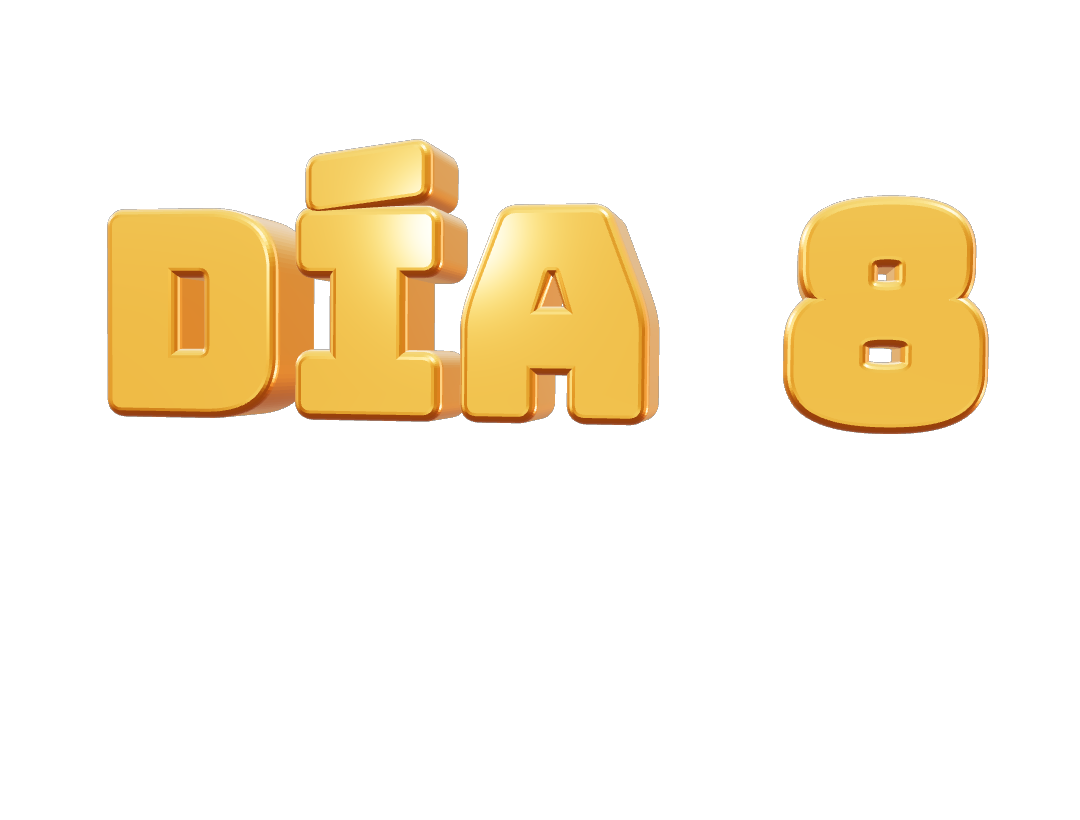
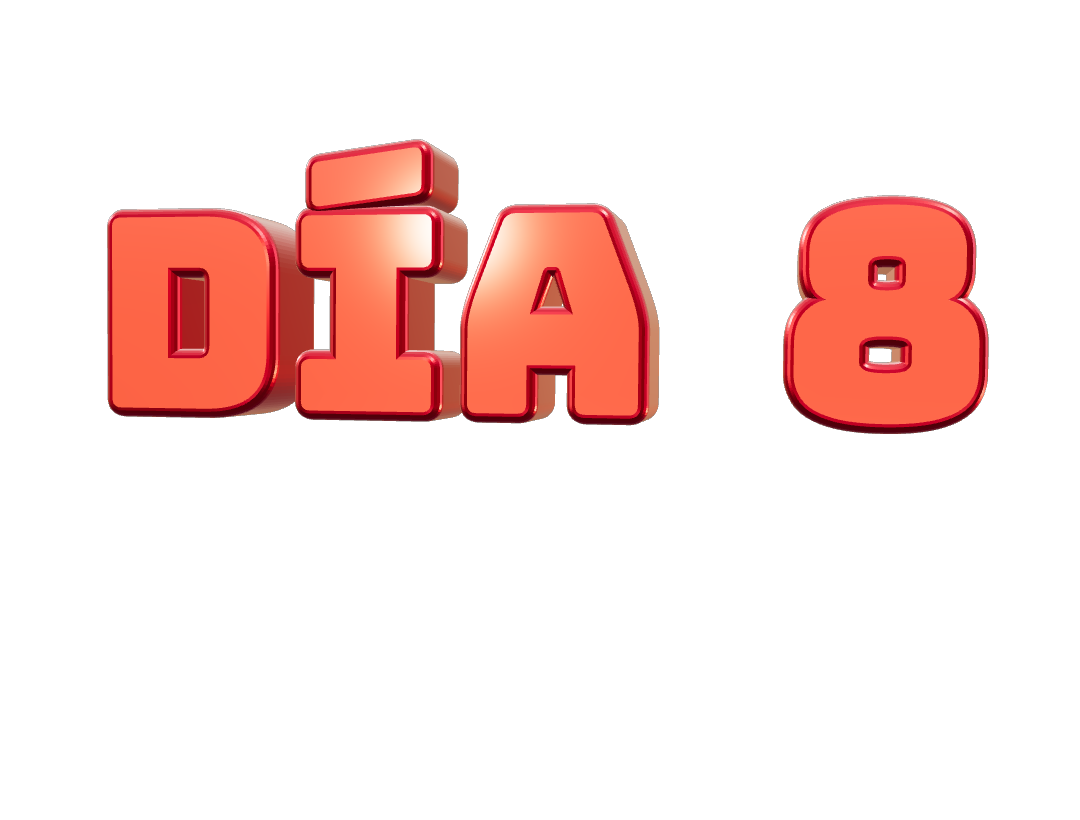
Portadas 3D de los dias 1-8 y especial, con fondos 3D nuevos (dental, salon, estudio)
Claude-Session: https://claude.ai/code/session_01VDdbgAKTwVog87zPcVcZjJ

Changed region(s): [[0.0917, 0.1524, 0.6111, 0.5183], [0.7028, 0.2134, 0.9167, 0.5488]]

diff --git a/lazy-dawns/plates3d/scenes.html b/lazy-dawns/plates3d/scenes.html
@@ -290,6 +290,48 @@ if (scene_name === 'lair') {
   for (let i = 0; i < 120; i++) glow(((i * 37) % 26) - 13, 0.5 + ((i * 53) % 110) / 10, -9 + ((i * 29) % 20), 0.14 + (i % 3) * 0.06, i % 2 ? 0xff7a8a : 0x7ac0ff, 0.7);
   window.__proj = screens.map(([x, y, k]) => { const v = new THREE.Vector3(x, y, -8.76).project(cam); return [x, y, k, (v.x + 1) / 2 * 1080, (1 - v.y) / 2 * 1920]; });
 }
+
+const rndS = (s) => () => (s = (s * 16807) % 2147483647) / 2147483647;
+const tileFloor = (c1, c2, n = 8) => { const t = tex((c, w, h) => { for (let i = 0; i < n; i++) for (let j = 0; j < n; j++) { c.fillStyle = (i + j) % 2 ? c1 : c2; c.fillRect(i * w / n, j * h / n, w / n, h / n); c.strokeStyle = 'rgba(0,0,0,.25)'; c.strokeRect(i * w / n, j * h / n, w / n, h / n); } }, 1024, 1024); t.wrapS = t.wrapT = THREE.RepeatWrapping; t.repeat.set(4, 4); return t; };
+const roomShell = (wallCol, floorTex, ceilCol = 0x1a1a22) => { add(Box(40, 0.3, 40), M(0xffffff, 0.18, 0.2, { map: floorTex }), 0, -0.15, 4, sc, false).receiveShadow = true; const wm = M(wallCol, 0.75); add(Box(26, 12, 0.3), wm, 0, 6, -9); add(Box(0.3, 12, 26), wm, -13, 6, 3); add(Box(0.3, 12, 26), wm, 13, 6, 3); add(Box(26, 0.3, 26), M(ceilCol, 0.9), 0, 12, 3); };
+if (scene_name === 'dental') {
+  sc.background = new THREE.Color(0x06121a); sc.fog = new THREE.Fog(0x06121a, 12, 40); cam.position.set(0, 3.0, 11.5); cam.lookAt(0, 2.6, -6); r.toneMappingExposure = 0.9;
+  roomShell(0x1d4a5a, tileFloor('#c9dde4', '#5f8896'));
+  const wallT = tex((c, w, h) => { c.fillStyle = '#d7ecf2'; c.fillRect(0, 0, w, h); for (let i = 0; i < 16; i++) for (let j = 0; j < 12; j++) { c.strokeStyle = 'rgba(80,120,140,.45)'; c.strokeRect(i * 64, j * 64, 64, 64); } }, 1024, 768); add(Box(26, 7, 0.1), M(0xffffff, 0.3, 0.1, { map: wallT }), 0, 3.5, -8.8);
+  // lampara dental grande con haz
+  add(Cyl(0.1, 0.1, 5), M(0xcfd6dc, 0.2, 0.9), 0, 9.5, -2); add(Box(3.2, 0.14, 0.14), M(0xcfd6dc, 0.2, 0.9), 1.4, 7.1, -2); const lamp = add(Cyl(1.6, 1.8, 0.5, 48), M(0xf4f6f8, 0.25, 0.5), 3.0, 6.9, -2); lamp.rotation.x = 0.3; add(Cyl(1.3, 1.3, 0.06, 48), M(0xffffff, 0.1, 0, { emissive: 0xfff6e0, emissiveIntensity: 5 }), 3.0, 6.62, -1.9, sc, false).rotation.x = 0.3; glow(3.0, 6.3, -1.8, 8, 0xfff6e0, 0.6); spot(3, 6.8, -1.9, 0, 0, 1, 0xfff6e0, 700, 0.5, 0.7); cone(2.0, 3.5, -1, 7, 2.4, 0xfff6e0, 0.07);
+  // sillon dental (lado derecho, de perfil) con cabecera y brazo con instrumentos
+  const vin = M(0x2b7a8c, 0.35, 0.1, { clearcoat: 0.5 }); add(Box(2.2, 0.5, 4.4), vin, 6.4, 1.3, -3.5); add(Box(2.2, 3.0, 0.6), vin, 6.4, 2.9, -5.7).rotation.x = -0.35; add(Box(1.2, 1.0, 0.5), vin, 6.4, 4.6, -6.2); add(Cyl(0.4, 0.7, 1.3), M(0xcfd6dc, 0.2, 0.9), 6.4, 0.65, -3.5); add(Box(3.0, 0.15, 3.0), M(0x9aa6ad, 0.3, 0.8), 6.4, 0.08, -3.5);
+  // bandeja con instrumentos, lightbox de rayos X con dientes, vitrina
+  add(Box(3.2, 0.14, 1.6), M(0xdfe6ea, 0.2, 0.8), -6, 2.1, -4); add(Cyl(0.07, 0.07, 2.1), M(0xdfe6ea, 0.2, 0.8), -6, 1.0, -4); for (let i = 0; i < 6; i++) { const t = add(Cyl(0.04, 0.04, 0.9), M(0xe5e7eb, 0.15, 1), -7 + i * 0.28, 2.3, -4); t.rotation.z = 1.2 - i * 0.2; }
+  const xray = tex((c, w, h) => { c.fillStyle = '#0a1a26'; c.fillRect(0, 0, w, h); c.fillStyle = '#d9f3ff'; for (let i = 0; i < 14; i++) { const x = 40 + i * 32, y = 120 + Math.sin(i / 13 * 3.14) * -40; c.beginPath(); c.roundRect(x, y, 22, 60 + (i % 3) * 10, 8); c.fill(); c.beginPath(); c.roundRect(x, y + 140, 22, 60 + (i % 3) * 10, 8); c.fill(); } c.strokeStyle = '#7fd4f5'; c.lineWidth = 6; c.strokeRect(10, 10, w - 20, h - 20); }, 512, 320);
+  add(Box(5.2, 3.3, 0.2), M(0x0a0a10, 0.3), -3.5, 6.0, -8.7); add(Box(4.8, 3.0, 0.06), new THREE.MeshBasicMaterial({ map: xray }), -3.5, 6.0, -8.55, sc, false); glow(-3.5, 6.0, -8.3, 8, 0x7fd4f5, 0.4);
+  for (let i = 0; i < 3; i++) add(Cyl(0.3, 0.3, 0.7), M([0xe86a92, 0x5eb4e8, 0xf7c948][i], 0.25, 0.1), 9.5 + i * 0.9, 3.0, -8.4);
+  sc.add(new THREE.AmbientLight(0x4a7a8a, 0.35)); sc.add(new THREE.HemisphereLight(0x8ac4d6, 0x0a1a22, 0.4)); spot(-5, 9, 3, -4, 2, -6, 0x7fd4f5, 90, 0.9, 0.9);
+}
+if (scene_name === 'salon') {
+  sc.background = new THREE.Color(0x120814); sc.fog = new THREE.Fog(0x120814, 12, 42); cam.position.set(0, 3.0, 11.5); cam.lookAt(0, 2.6, -6); r.toneMappingExposure = 0.95;
+  roomShell(0x3a1a3a, tileFloor('#f0dcd8', '#5a2a48'));
+  const gold = M(0xd4a24c, 0.25, 0.9);
+  // pared de espejos con marcos y focos (2 estaciones laterales)
+  for (const x of [-7.4, 7.4]) { add(Box(5.6, 6.4, 0.2), gold, x, 4.6, -8.7); const mT = tex((c, w, h) => { const g = c.createLinearGradient(0, 0, w, h); g.addColorStop(0, '#d8eaf6'); g.addColorStop(0.5, '#7fa8c6'); g.addColorStop(1, '#2d4a68'); c.fillStyle = g; c.fillRect(0, 0, w, h); c.fillStyle = 'rgba(255,255,255,.12)'; c.beginPath(); c.moveTo(60, 0); c.lineTo(160, 0); c.lineTo(60 + 120, h); c.lineTo(20, h); c.fill(); }, 256, 320); add(Box(5.2, 6.0, 0.08), new THREE.MeshBasicMaterial({ map: mT }), x, 4.6, -8.58, sc, false); for (let i = 0; i < 7; i++) for (const y of [1.5, 7.7]) { add(Sph(0.18), M(0xfff6d8, 0.1, 0, { emissive: 0xffe2a0, emissiveIntensity: 3.2 }), x - 2.4 + i * 0.8, y, -8.5, sc, false); } glow(x, 4.6, -8.3, 9, 0xffd49a, 0.3); add(Box(4.6, 0.25, 1.4), M(0xf5e6d0, 0.2), x, 1.6, -7.8); for (let i = 0; i < 5; i++) add(Cyl(0.16, 0.16, 0.8), M([0xb91c1c, 0x7c2d12, 0x1f2937, 0xc084fc, 0xf59e0b][i], 0.25, 0.3), x - 1.7 + i * 0.85, 2.2, -7.6); }
+  // secadores colgantes (casco) y lavacabezas
+  for (const x of [-3.2, 3.2]) { add(Cyl(0.05, 0.05, 4.5), M(0xcfd6dc, 0.2, 0.9), x, 9.8, -4); const hd = add(Sph(1.1), M(0xf472b6, 0.2, 0.2, { clearcoat: 1 }), x, 7.2, -4); hd.scale.set(1, 0.8, 1); add(Cyl(1.2, 1.2, 0.2, 40), M(0xfff1f2, 0.2), x, 6.6, -4); }
+  add(Box(3, 1.2, 1.6), M(0xf5f5f5, 0.2, 0.1), 0, 1.4, -7); add(Cyl(0.9, 0.7, 0.5), M(0xdfe6ea, 0.15, 0.6), 0, 2.2, -7);
+  sc.add(new THREE.AmbientLight(0x6a3a6a, 0.45)); sc.add(new THREE.HemisphereLight(0xffc8e8, 0x1a0a20, 0.45)); spot(0, 10, 4, 0, 1, -5, 0xffd9e8, 180, 0.8, 0.9); spot(-8, 8, 2, -6, 2, -7, 0xff9ad0, 80, 0.9, 0.9); spot(8, 8, 2, 6, 2, -7, 0x9ad0ff, 80, 0.9, 0.9);
+}
+if (scene_name === 'studio') {
+  sc.background = new THREE.Color(0x140c14); sc.fog = new THREE.Fog(0x140c14, 12, 42); cam.position.set(0, 3.0, 11.5); cam.lookAt(0, 2.6, -6); r.toneMappingExposure = 0.95;
+  const wood = tex((c, w, h) => { for (let i = 0; i < 12; i++) { c.fillStyle = i % 2 ? '#6a4a38' : '#7a5842'; c.fillRect(0, i * h / 12, w, h / 12 - 2); c.fillStyle = 'rgba(0,0,0,.35)'; c.fillRect(0, (i + 1) * h / 12 - 2, w, 2); } }, 512, 512); wood.wrapS = wood.wrapT = THREE.RepeatWrapping; wood.repeat.set(5, 5);
+  roomShell(0x6a3a4a, wood);
+  // aro de luz en tripie y lupa luminosa con brazo
+  for (const x of [-5.5, 5.5]) { add(Cyl(0.06, 0.06, 6), M(0x222, 0.3, 0.9), x, 3, -5); const ring = add(new THREE.TorusGeometry(1.4, 0.14, 16, 56), new THREE.MeshStandardMaterial({ color: 0xffffff, emissive: 0xfff2dc, emissiveIntensity: 3 }), x, 6.6, -5); ring.rotation.y = x < 0 ? 0.3 : -0.3; glow(x, 6.6, -4.8, 7, 0xffe2c0, 0.5); add(Cyl(0.5, 0.6, 0.15), M(0x222, 0.3, 0.9), x, 0.08, -5); }
+  const mir = tex((c, w, h) => { const g = c.createRadialGradient(w / 2, h / 2, 10, w / 2, h / 2, w / 2); g.addColorStop(0, '#f2f8ff'); g.addColorStop(1, '#8fb0c8'); c.fillStyle = g; c.fillRect(0, 0, w, h); }, 256, 256); add(Cyl(2.2, 2.2, 0.15, 56), M(0xd4a24c, 0.25, 0.9), 0, 5.2, -8.7).rotation.x = Math.PI / 2; add(Cyl(2.0, 2.0, 0.08, 56), new THREE.MeshBasicMaterial({ map: mir }), 0, 5.2, -8.58, sc, false).rotation.x = Math.PI / 2;
+  const cht = tex((c, w, h) => { c.fillStyle = '#fbf6f0'; c.fillRect(0, 0, w, h); c.strokeStyle = '#8a4a4a'; c.lineWidth = 6; c.strokeRect(10, 10, w - 20, h - 20); for (let i = 0; i < 5; i++) { c.beginPath(); c.moveTo(60, 100 + i * 70); c.quadraticCurveTo(w / 2, 40 + i * 70, w - 60, 110 + i * 70); c.lineWidth = 10 - i; c.stroke(); } }, 256, 384); add(Box(2.4, 3.4, 0.08), new THREE.MeshBasicMaterial({ map: cht }), -9, 5.0, -8.7, sc, false); add(Box(2.4, 3.4, 0.08), new THREE.MeshBasicMaterial({ map: cht }), 9, 5.0, -8.7, sc, false);
+  add(Box(6, 0.2, 1.6), M(0xe8d6c8, 0.3, 0.1), 0, 1.9, -7.4); for (let i = 0; i < 5; i++) add(Cyl(0.14, 0.14, 0.7), M([0xe86a92, 0xc084fc, 0xf7c948, 0x7ed6a0, 0x5eb4e8][i], 0.25, 0.3), -2 + i * 1, 2.4, -7.3); add(Cyl(0.9, 0.7, 1.1), M(0xe5e0d8, 0.5), -9.8, 0.55, -6);
+  for (let i = 0; i < 10; i++) { const a = i / 10 * 6.283; const l = add(Sph(0.5), M(0x2f8f4a, 0.55), -9.8 + Math.cos(a) * 0.6, 1.9 + (i % 4) * 0.5, -6 + Math.sin(a) * 0.5); l.scale.set(0.7, 1.7, 0.45); }
+  sc.add(new THREE.AmbientLight(0x6a4050, 0.45)); sc.add(new THREE.HemisphereLight(0xffd0c0, 0x201018, 0.45)); spot(0, 10, 4, 0, 2, -6, 0xfff0e0, 150, 0.9, 0.9);
+}
 r.render(sc, cam);
 window.__done = true;
 </script></body></html>

diff --git a/lazy-dawns/plates3d/objects.html b/lazy-dawns/plates3d/objects.html
@@ -201,8 +201,8 @@ if (NAME === 'slate') { const g = new THREE.Group(); sc.add(g);
 // ---------- portada: titulo multilinea en 3D con bisel, reflejos y borde de luz de color ----------
 if (NAME === 'cover') { const g = new THREE.Group(); sc.add(g); r.toneMappingExposure = 1.05;
   setup = new TTFLoader().loadAsync('./Bungee-Regular.ttf').then((j) => { const font = new Font(j); const lines = (Q.get('t1') || 'TITULO').split('|'), style = Q.get('t2') || 'gold';
-    const P = { gold: { c: 0xffc83a, e: 0xc58a1e, rim: 0xffd890, rim2: 0xff9a40 }, ice: { c: 0xcfefff, e: 0x6fb3d8, rim: 0x9ff0ff, rim2: 0x6a8aff }, ruby: { c: 0xff5a6a, e: 0x8a1428, rim: 0xff9aa6, rim2: 0xff2a4a }, violet: { c: 0xd6b8ff, e: 0x5b34b0, rim: 0xe0c8ff, rim2: 0x8a5aff } }[style] || { c: 0xffc83a, e: 0xc58a1e, rim: 0xffd890, rim2: 0xff9a40 };
-    const gm = M({ color: P.c, metalness: 1, roughness: 0.17, clearcoat: 0.5, clearcoatRoughness: 0.1, envMapIntensity: 1.5 }), sm = M({ color: P.e, metalness: 1, roughness: 0.32, envMapIntensity: 1.2 });
+    const P = { gold: { c: 0xffc83a, e: 0xc58a1e, rim: 0xffd890, rim2: 0xff9a40 }, ice: { c: 0x9fdcff, e: 0x2468a8, rim: 0x9ff0ff, rim2: 0x6a8aff }, ruby: { c: 0xff5a6a, e: 0x8a1428, rim: 0xff9aa6, rim2: 0xff2a4a }, violet: { c: 0xb98cff, e: 0x3a1f8a, rim: 0xe0c8ff, rim2: 0x8a5aff }, teal: { c: 0x2fe0c4, e: 0x075e55, rim: 0xb5fff2, rim2: 0x2a9aff }, pink: { c: 0xff6ab8, e: 0x8a1050, rim: 0xffc8e6, rim2: 0xff4dc0 } }[style] || { c: 0xffc83a, e: 0xc58a1e, rim: 0xffd890, rim2: 0xff9a40 };
+    const gm = M({ color: P.c, metalness: 1, roughness: 0.17, clearcoat: 0.5, clearcoatRoughness: 0.1, envMapIntensity: style === 'gold' ? 1.5 : 1.0 }), sm = M({ color: P.e, metalness: 1, roughness: 0.32, envMapIntensity: 1.0 });
     const rl = new THREE.DirectionalLight(P.rim, 4); rl.position.set(-6, 3, -4); sc.add(rl); const rl2 = new THREE.DirectionalLight(P.rim2, 3); rl2.position.set(7, -2, -3); sc.add(rl2);
     const rows = []; let maxW = 0; lines.forEach((ln, li) => { const row = new THREE.Group(); let x = 0; for (const ch of ln) { if (ch === ' ') { x += 0.9; continue; } const geo = new TextGeometry(ch, { font, size: 1.6, height: 0.8, curveSegments: 12, bevelEnabled: true, bevelThickness: 0.1, bevelSize: 0.08, bevelSegments: 5 }); geo.computeBoundingBox(); const wd = geo.boundingBox.max.x - geo.boundingBox.min.x; const m = new THREE.Mesh(geo, [gm, sm]); m.castShadow = true; m.position.x = x - geo.boundingBox.min.x; row.add(m); x += wd + 0.14; } const tot = x - 0.14; row.children.forEach((m) => { m.position.x -= tot / 2; }); row.userData.w = tot; maxW = Math.max(maxW, tot); rows.push(row); g.add(row); });
     const lh = 2.5; rows.forEach((row, i) => { const k = Math.min(1, maxW / row.userData.w * 0.0 + 1); row.position.y = ((lines.length - 1) / 2 - i) * lh; row.position.z = 0; row.rotation.x = -0.05; });
